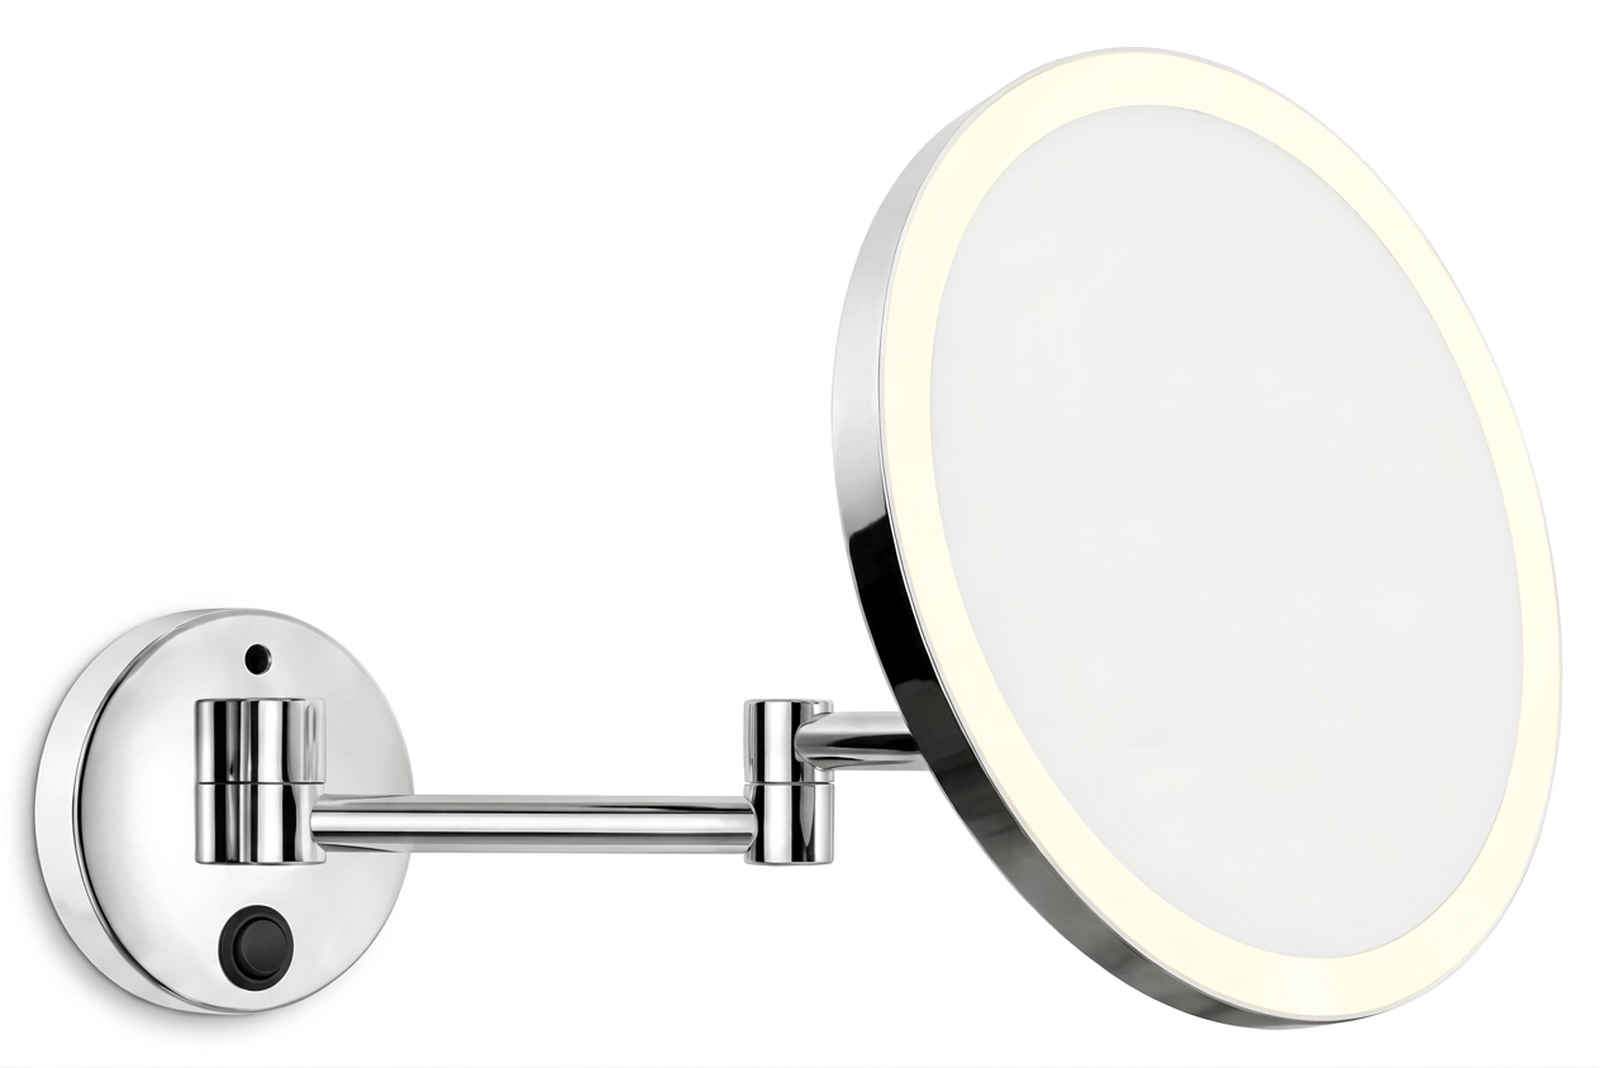
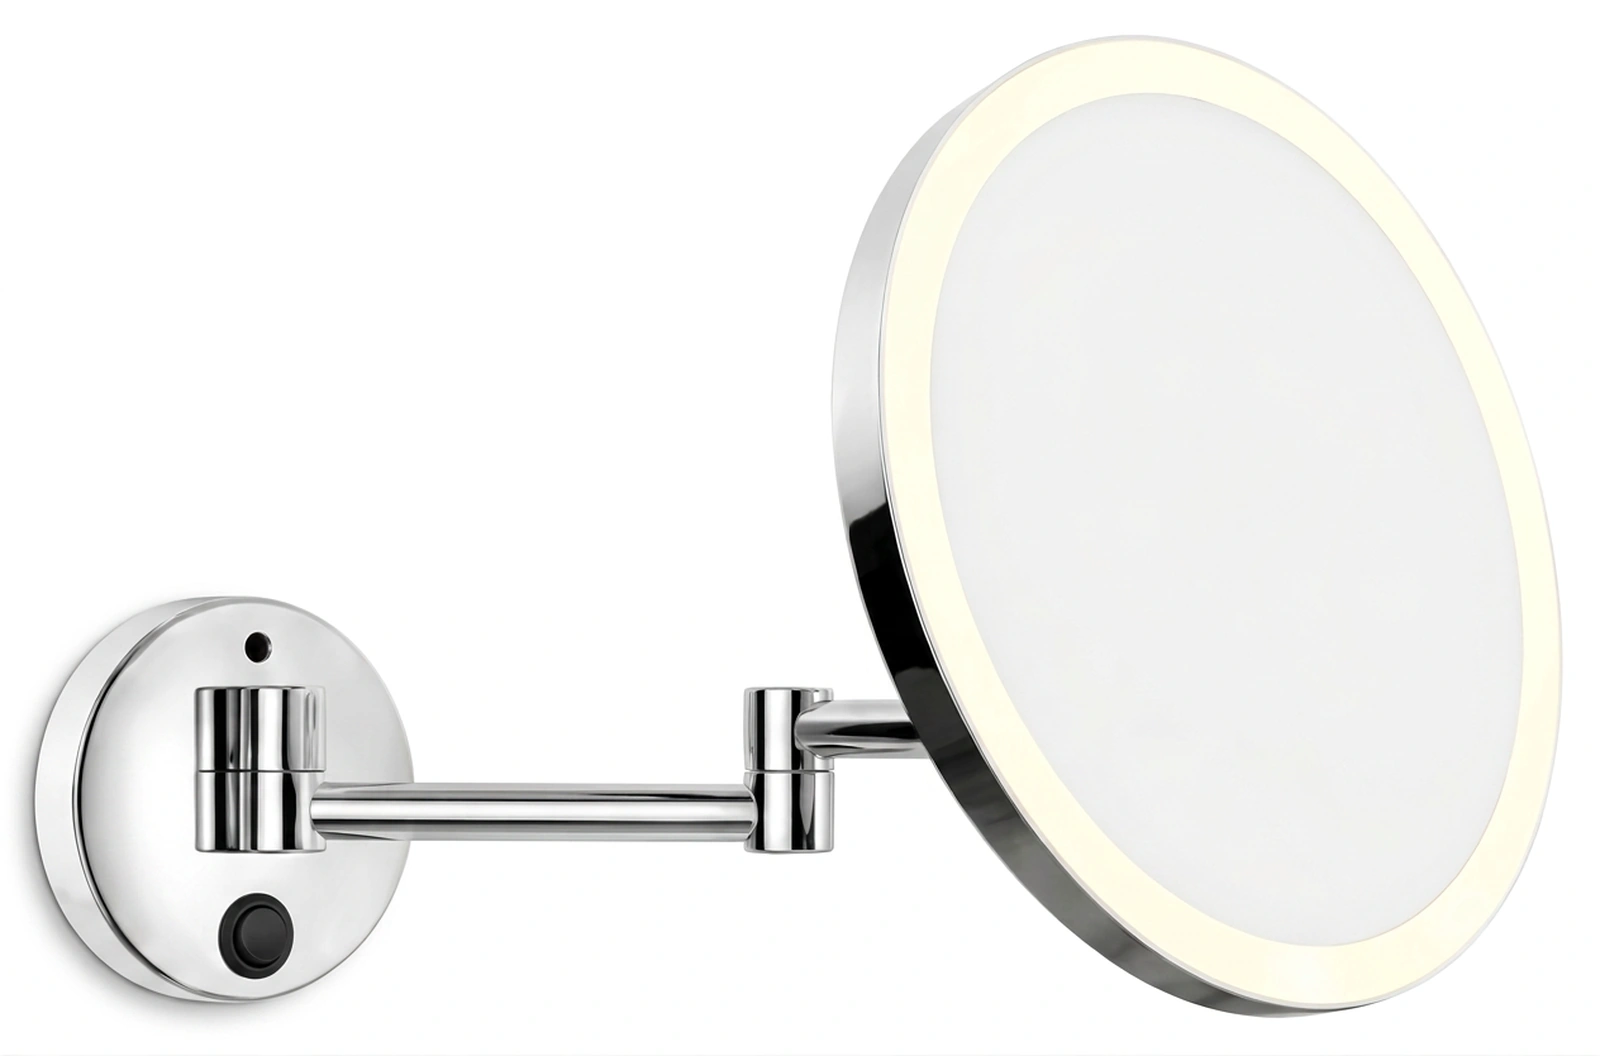
Mirrors: centre the mark, and let the product fill the frame again
Two things were wrong with the four mirror photos.

Placement. On the two makeup mirrors the mark sat in the upper-left corner
of the wall plate, at an angle to nothing, and read as a pasted watermark.
It is now on the glass, horizontally centred — which is the only place a
mark sits square on a round, tilted head, and the way an arm mirror is
actually signed. The framed mirror keeps its mark on the glass but moves it
onto the true centre line above the bronze rail; the tall LED mirror's mark
is centred over the sensor instead of drifting right.

Framing. The re-rendered plates had been cropped with a 6 % margin, so the
product only filled 80–90 % of the frame while the originals filled 96–100 %.
The tall mirror was the worst offender: it came back visibly slimmer than the
real piece, with a tall empty band on both sides. Every plate is now cropped
to the product and rescaled with a 2.2 % margin, so the product fills the
frame the way it did before — and the slim mirror reads slim again for the
right reason, not because it was squeezed.

Also fixed: the mark was too small to read at card size. It is now ~13–14 %
of the photo width, sized against the part it sits on rather than the frame.

No product was reshaped. Same geometry, same finishes, same lighting.
`tools/lufly_logo_engrave.py` holds the new placements and re-runs from the
pristine plates in `public/images/products/originals/`.

Verified: 72 category pages / 971 cards, zero grid mismatches; all nine
[…]

diff --git a/tools/lufly_logo_engrave.py b/tools/lufly_logo_engrave.py
@@ -69,41 +69,41 @@ class Placement:
 # Placements — all measured on the original pixels, then written as fractions
 # --------------------------------------------------------------------------- #
 PLACEMENTS = [
-    # The makeup mirrors carry the mark on the wall plate — the flat, machined
-    # face between the fixing screw and the sliding arm boss.
+    # The two makeup mirrors are signed on the glass, centred — the way an arm
+    # mirror is marked, and the only place a mark can sit square on a round head.
     Placement(
-        file="c7181bc35d636359403fdd8a.webp",           # 1600 x 1123, plate x 70..250 y 190..1000
+        file="c7181bc35d636359403fdd8a.webp",           # 1600 x 1145
         product="1610-0051 · wall-mounted LED makeup mirror",
-        width_frac=96 / 1600,
-        centre=(228 / 1600, 530 / 1123),
-        strength=1.15,
-        note="wall plate, below the top screw and above the sliding boss",
+        width_frac=210 / 1600,
+        centre=(1132 / 1600, 470 / 1145),
+        strength=1.5,
+        note="on the glass, horizontally centred above the touch icon",
     ),
     Placement(
-        file="b032652d6a19ed62de154309.webp",           # 1600 x 1068, round plate centred x 175 y 775
+        file="b032652d6a19ed62de154309.webp",           # 1600 x 1056
         product="1610-0044 · wall-mounted LED makeup mirror",
-        width_frac=76 / 1600,
-        centre=(150 / 1600, 925 / 1068),
-        strength=1.2,
-        note="round wall plate, below the arm boss",
+        width_frac=215 / 1600,
+        centre=(1148 / 1600, 330 / 1056),
+        strength=1.5,
+        note="on the glass, horizontally centred in the upper half of the disc",
     ),
-    # Framed mirror: the bronze bottom rail is the frame's own flat face.
+    # Framed mirror: on the glass, centred just above the bronze rail.
     Placement(
-        file="f0c10843681c6fb5db27e2e4.webp",           # 1600 x 1988, rail y 1782..1806
+        file="f0c10843681c6fb5db27e2e4.webp",           # 1600 x 1952, rail top y 1596
         product="SS-90626 · bronze-framed mirror",
-        width_frac=152 / 1600,
-        centre=(800 / 1600, 1700 / 1988),
-        strength=1.3,
-        note="on the glass, low centre above the bronze rail",
+        width_frac=200 / 1600,
+        centre=(800 / 1600, 1660 / 1952),
+        strength=1.35,
+        note="on the glass, centred low above the bronze rail",
     ),
-    # Tall LED mirror: etched into the glass above the touch sensor.
+    # Tall LED mirror: on the glass, centred, clear of the touch sensor.
     Placement(
-        file="fcbd5a0b475aa37bd34c1462.webp",           # 1600 x 4006
+        file="fcbd5a0b475aa37bd34c1462.webp",           # 1600 x 3783, sensor centre (622, 3255)
         product="custom-made-171 · LED sensor mirror",
-        width_frac=340 / 1600,
-        centre=(800 / 1600, 3150 / 4006),
-        strength=1.25,
-        note="on the glass, above the touch sensor",
+        width_frac=230 / 1600,
+        centre=(795 / 1600, 3100 / 3783),
+        strength=1.35,
+        note="on the glass, centred above the touch sensor",
     ),
 ]
 
